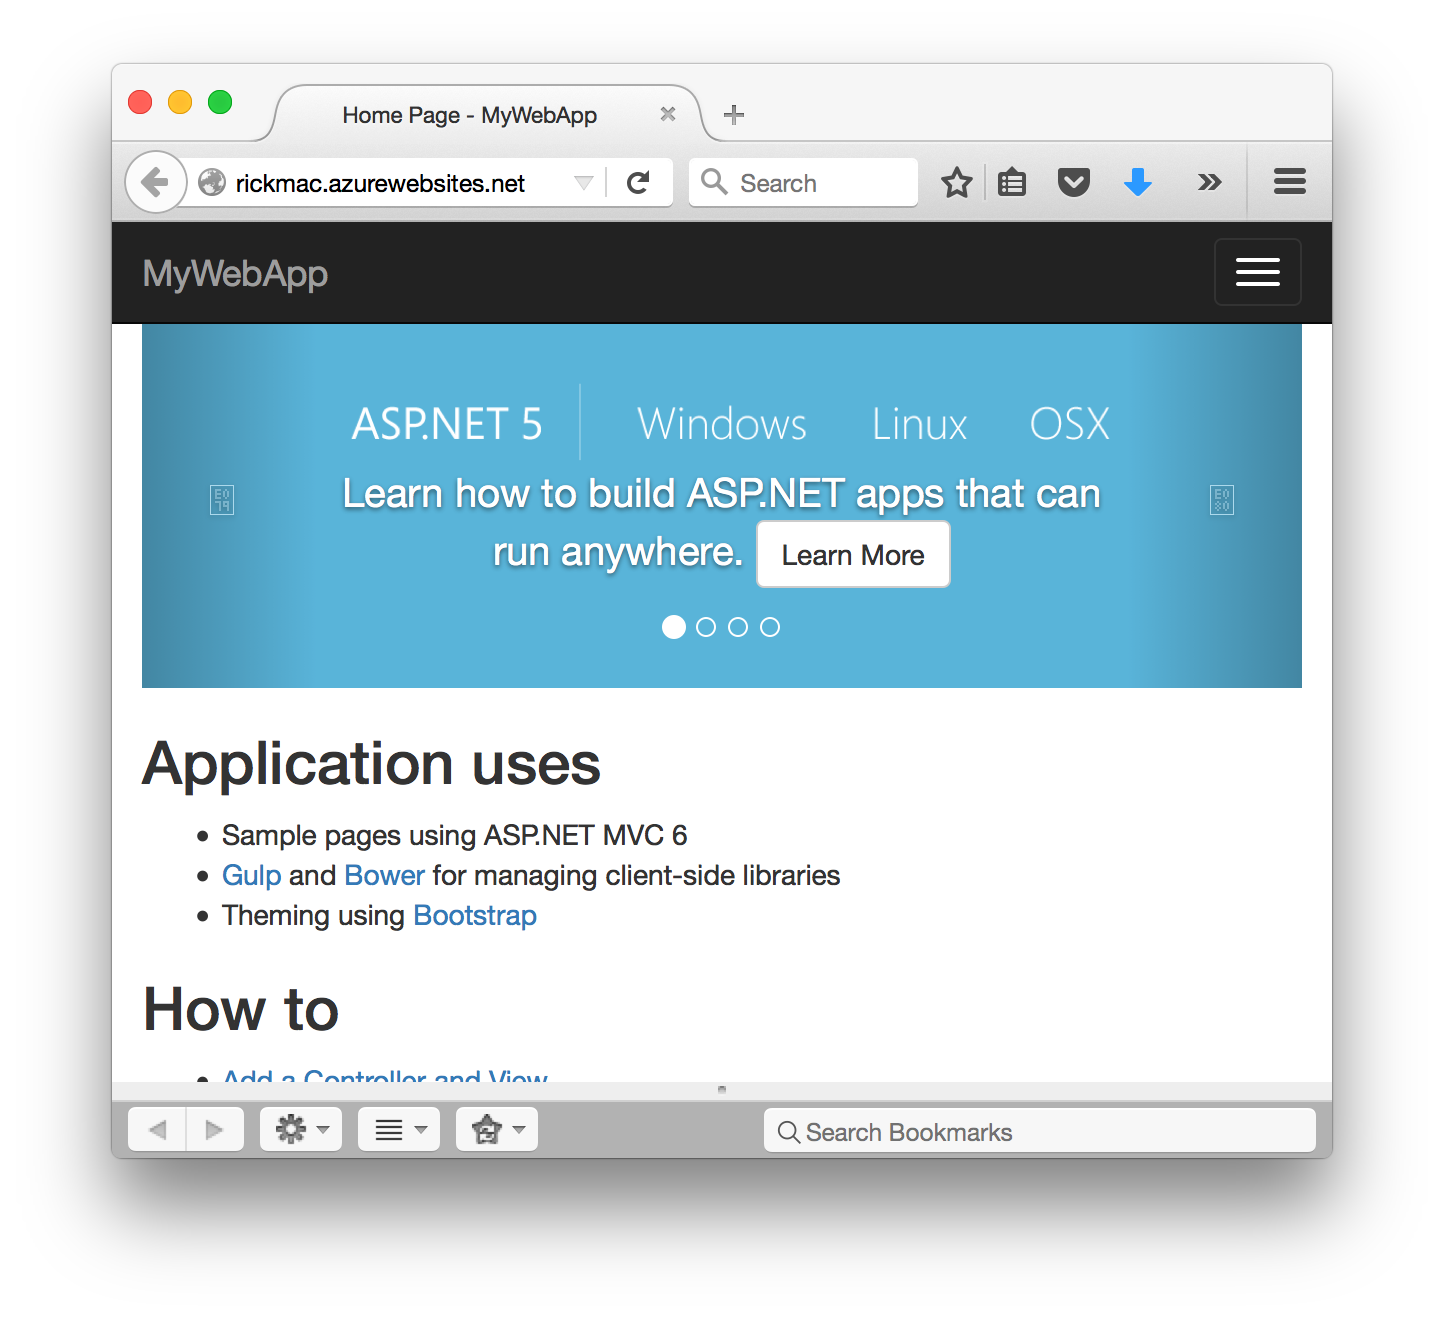
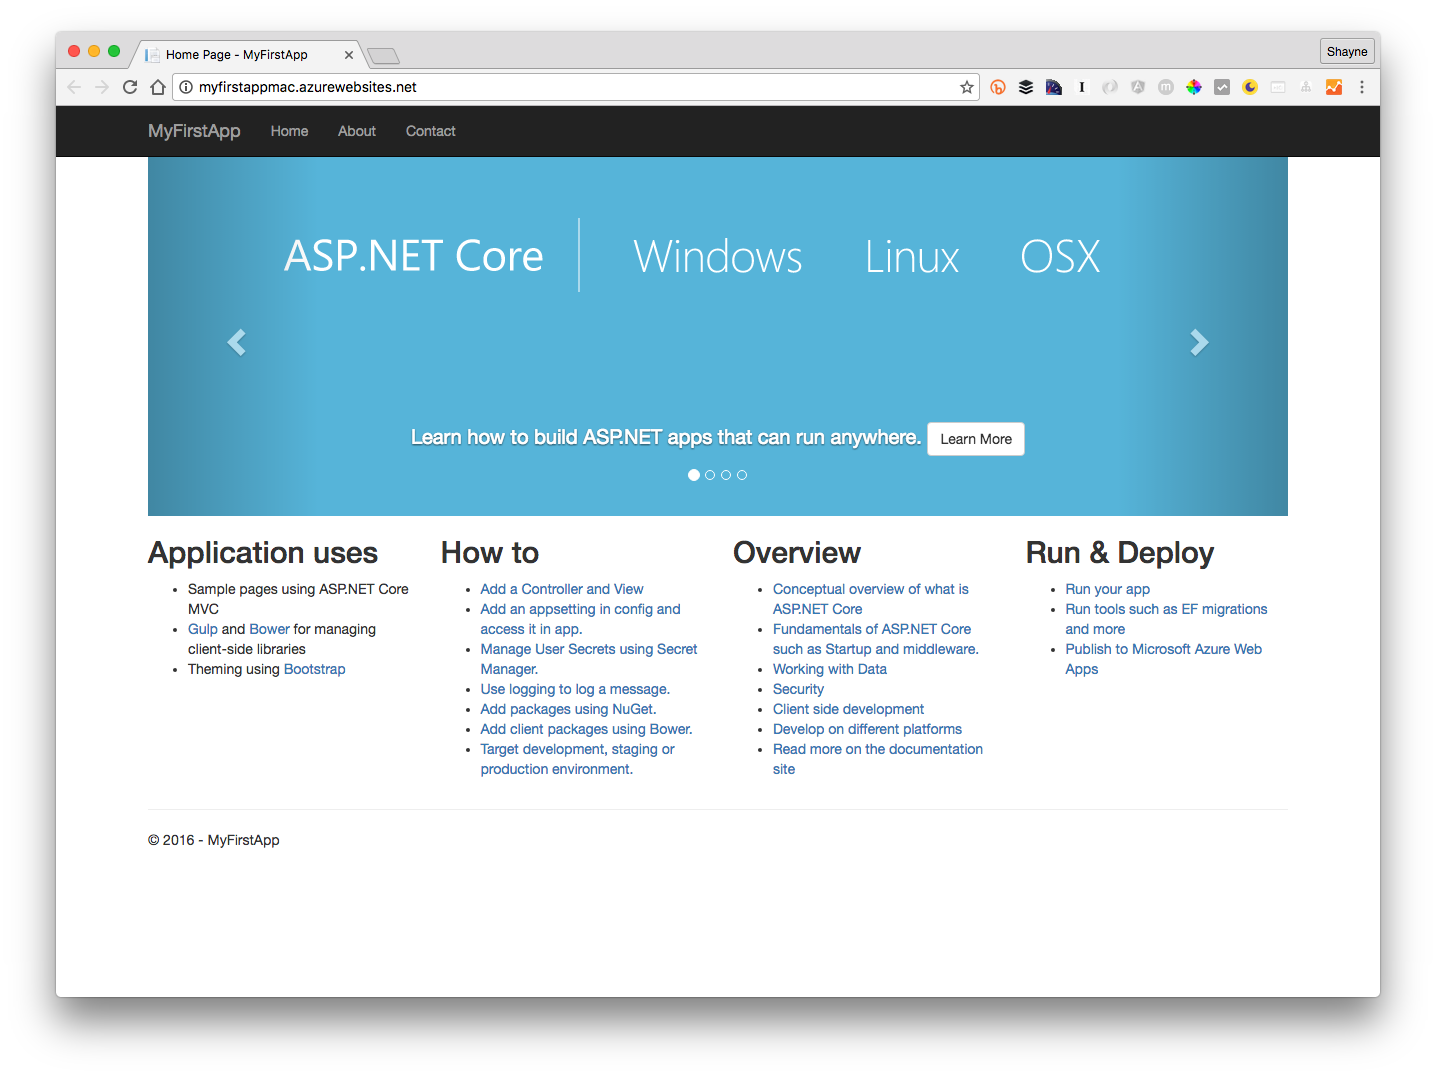
Updates for First ASP.NET Core App on a Mac Using VS Code (#1818)
* setup and scaffolding

* removed welcome page image - no longer valid

* symbols added to match vscode docs

* updates azure deployment

* addressing edits

diff --git a/aspnet/tutorials/your-first-mac-aspnet.rst b/aspnet/tutorials/your-first-mac-aspnet.rst
@@ -1,7 +1,7 @@
 Your First ASP.NET Core Application on a Mac Using Visual Studio Code
 =====================================================================
 
-By `Daniel Roth`_, `Steve Smith`_ and `Rick Anderson`_
+By `Daniel Roth`_, `Steve Smith`_, `Rick Anderson`_ and `Shayne Boyer`_
 
 This article will show you how to write your first ASP.NET Core application on a Mac.
 
@@ -9,45 +9,78 @@ This article will show you how to write your first ASP.NET Core application on a
   :local:
   :depth: 1
 
+
 Setting Up Your Development Environment
 ---------------------------------------
 
-To setup your development machine download and install `.NET Core`_ and `Visual Studio Code`_ with the `C# extension <https://marketplace.visualstudio.com/items?itemName=ms-vscode.csharp>`__.
+To setup your development machine download and install `.NET Core`_ and `Visual Studio Code`_ with the `C# extension <https://marketplace.visualstudio.com/items?itemName=ms-vscode.csharp>`__. Node.js and npm is also required. If not already installed visit `nodejs.org <https://nodejs.org/en/download/package-manager/#osx>`_. 
 
 Scaffolding Applications Using Yeoman
 -------------------------------------
 
-Follow the instruction in :doc:`/client-side/yeoman` to create an ASP.NET Core project.
+We will be using ``yo aspnet`` to generate the **Web Application Basic** template, you may follow the full instructions in :doc:`/client-side/yeoman` to create an ASP.NET Core project which show an **Empty Web** for reference.
+
+Install the necessary yeoman generators and bower using npm.
+
+.. code-block:: console
+
+    npm install -g yo generator-aspnet bower
+
+Run the ASP.NET Core generator
+
+.. code-block:: console
+
+    yo aspnet
+
+* Select **Web Application Basic [without Membership and Authorization]** and tap Enter
+* Select Bootstrap (3.3.6) as the UI framework and tap Enter
+* Use "MyFirstApp" for the app name and tap Enter
+
+When the generator completes scaffolding the files, it will instruct you to restore, build, and run the application.
+
+.. code-block:: console
+
+    Your project is now created, you can use the following commands to get going
+        cd "MyFirstApp"
+        dotnet restore
+        dotnet build (optional, build will also happen with it's run)
+        dotnet run
 
 Developing ASP.NET Core Applications on a Mac With Visual Studio Code
 ---------------------------------------------------------------------
 
 - Start **Visual Studio Code**
 
-.. image:: your-first-mac-aspnet/_static/vscode-welcome.png
-
-- Tap **File > Open** and navigate to your Empty ASP.NET Core app
+- Tap **File > Open** and navigate to your ASP.NET Core app
 
 .. image:: your-first-mac-aspnet/_static/file-open.png
 
-From a Terminal / bash prompt, run ``dotnet restore`` to restore the project's dependencies. Alternately, you can enter ``command shift p`` in Visual Studio Code and then type ``dot`` as shown:
+When the application is opened, Visual Studio Code will prompt to restore the needed project dependencies as well as add build and debug dependencies. 
 
-.. image:: your-first-mac-aspnet/_static/dotnet-restore.png
+.. image:: your-first-mac-aspnet/_static/dependencies-restore.png 
+    :scale: 100%
 
-You can run commands directly from within Visual Studio Code, including ``dotnet restore`` and any tools referenced in the *project.json* file, as well as custom tasks defined in *.vscode/tasks.json*.
+Tap "Yes" to add the build and debug assets.
 
-This empty project template simply displays "Hello World!". Open *Startup.cs* in Visual Studio Code to see how this is configured:
+.. image:: your-first-mac-aspnet/_static/debug-items-added.png 
+    :scale: 100%
 
-.. image:: your-first-mac-aspnet/_static/vscode-startupcs.png
+Tap "Restore" to restore the project dependencies. Alternately, you can enter ``⌘⇧P`` in Visual Studio Code and then type ``dot`` as shown:
+
+.. image:: your-first-mac-aspnet/_static/dot-restore.png
+
+You can run commands directly from within Visual Studio Code, including ``dotnet restore`` and any tools referenced in the *project.json* file, as well as custom tasks defined in *.vscode/tasks.json*. Visual Studio Code also includes an integrated console ``⌃``` where you can execute these commands without leaving the editor. 
+
 
 If this is your first time using Visual Studio Code (or just *Code* for short), note that it provides a very streamlined, fast, clean interface for quickly working with files, while still providing tooling to make writing code extremely productive. 
 
-In the left navigation bar, there are four icons, representing four viewlets:
+In the left navigation bar, there are five icons, representing four viewlets:
 
 - Explore
 - Search
 - Git
 - Debug
+- Extensions
 
 The Explorer viewlet allows you to quickly navigate within the folder system, as well as easily see the files you are currently working with. It displays a badge to indicate whether any files have unsaved changes, and new folders and files can easily be created (without having to open a separate dialog window). You can easily Save All from a menu option that appears on mouse over, as well.
 
@@ -59,7 +92,9 @@ The Search viewlet allows you to quickly search within the folder structure, sea
 
 The Debug viewlet supports interactive debugging of applications.
 
-Finally, Code's editor has a ton of great features. You'll notice unused using statements are underlined and can be removed automatically by using ``command .`` when the lightbulb icon appears. Classes and methods also display how many references there are in the project to them. If you're coming from Visual Studio, Code includes many of the same keyboard shortcuts, such as ``command k c`` to comment a block of code, and ``command k u`` to uncomment.
+Code's editor has a ton of great features. You'll notice unused using statements are underlined and can be removed automatically by using ``⌘ .`` when the lightbulb icon appears. Classes and methods also display how many references there are in the project to them. If you're coming from Visual Studio, Code includes many of the same keyboard shortcuts, such as ``⌘KC`` to comment a block of code, and ``⌘KU`` to uncomment.
+
+More on editor in `Visual Studio Code`_.  
 
 Running Locally Using Kestrel
 -----------------------------
@@ -67,32 +102,48 @@ Running Locally Using Kestrel
 The sample is configured to use :ref:`Kestrel <kestrel>` for the web server. You can see it configured in the *project.json* file, where it is specified as a dependency.
 
 .. code-block:: json
-  :emphasize-lines: 10
+  :emphasize-lines: 14
  
   {
-    "buildOptions": {
-      "emitEntryPoint": true
-    },
     "dependencies": {
       "Microsoft.NETCore.App": {
-        "type": "platform",
-        "version": "1.0.0"
+        "version": "1.0.0",
+        "type": "platform"
       },
-      "Microsoft.AspNetCore.Server.Kestrel": "1.0.0"
-    },
-    "frameworks": {
-      "netcoreapp1.0": {}
-    }
-  }
+      "Microsoft.AspNetCore.Diagnostics": "1.0.0",
+      "Microsoft.AspNetCore.Mvc": "1.0.0",
+      "Microsoft.AspNetCore.Razor.Tools": {
+        "version": "1.0.0-preview2-final",
+        "type": "build"
+      },
+      "Microsoft.AspNetCore.Server.IISIntegration": "1.0.0",
+      "Microsoft.AspNetCore.Server.Kestrel": "1.0.0",
+      "Microsoft.AspNetCore.StaticFiles": "1.0.0",
 
 
-- Run ``dotnet run`` command to launch the app
+Using Visual Studio Code Debugger
+^^^^^^^^^^^^^^^^^^^^^^^^^^^^^^^^^
+If you chose to have the debug and build assets added to the project:
 
-- Navigate to ``localhost:5000``:
+- Tap the Debug icon in the View Bar on the left pane
+- Tap the "Play (F5)" icon to launch the app
 
-.. image:: your-first-mac-aspnet/_static/hello-world.png
+.. image:: your-first-mac-aspnet/_static/launch-debugger.png
 
-- To stop the web server enter ``Ctrl+C``.
+Your default browser will automatically launch and navigate to ``http://localhost:5000``
+
+.. image:: your-first-mac-aspnet/_static/myfirstapp.png
+
+- To stop the application, close the browser and hit the "Stop" icon on the debug bar
+
+.. image:: your-first-mac-aspnet/_static/debugger.png
+
+Using the dotnet commands
+^^^^^^^^^^^^^^^^^^^^^^^^^^^^^
+- Run ``dotnet run`` command to launch the app from terminal/bash
+
+- Navigate to ``http://localhost:5000``
+- To stop the web server enter ``⌃+C``.
 
 
 Publishing to Azure
@@ -118,27 +169,34 @@ Initialize Azure Website
 
 You can deploy to Azure Web Apps directly using Git. 
 
-- `Create a new Web App <https://tryappservice.azure.com/>`__ in Azure. If you don't have an Azure account, you can `create a free trial <http://azure.microsoft.com/en-us/pricing/free-trial/>`__. 
+- If you don't have an Azure account, you can `create a free trial <http://azure.microsoft.com/en-us/pricing/free-trial/>`__. 
 
-- Configure the Web App in Azure to support `continuous deployment using Git <http://azure.microsoft.com/en-us/documentation/articles/web-sites-publish-source-control/>`__.
+Create a Web App in the Azure Portal to host your new application.
 
-Record the Git URL for the Web App from the Azure portal:
+.. image:: your-first-mac-aspnet/_static/create-web-app.png
+
+Configure the Web App in Azure to support `continuous deployment using Git <https://azure.microsoft.com/en-us/documentation/articles/app-service-deploy-local-git/>`__.
+
+Record the Git URL for the Web App from the Azure portal.
 
 .. image:: your-first-mac-aspnet/_static/azure-portal.png
 
-- In a Terminal window, add a remote named ``azure`` with the Git URL you noted previously.
+In a Terminal window, add a remote named ``azure`` with the Git URL you noted previously.
 
-  - ``git remote add azure https://ardalis-git@firstaspnetcoremac.scm.azurewebsites.net:443/firstaspnetcoremac.git``
+``git remote add azure https://shayneboyer@myfirstappmac.scm.azurewebsites.net:443/MyFirstAppMac.git``
 
-- Push to master.
-
-  - ``git push azure master`` to deploy. 
+Push to master.  ``git push azure master`` to deploy. 
 
   .. image:: your-first-mac-aspnet/_static/git-push-azure-master.png
 
-- Browse to the newly deployed web app. You should see ``Hello World!``
+ 
+Browse to the newly deployed web app.
 
-.. .. image:: your-first-mac-aspnet/_static/azure.png 
+.. image:: your-first-mac-aspnet/_static/azure.png 
+
+Looking at the Deployment Details in the Azure Portal, you can see the logs and steps each time there is a commit to the branch.
+
+.. image:: your-first-mac-aspnet/_static/deployment.png 
 
 
 Additional Resources
